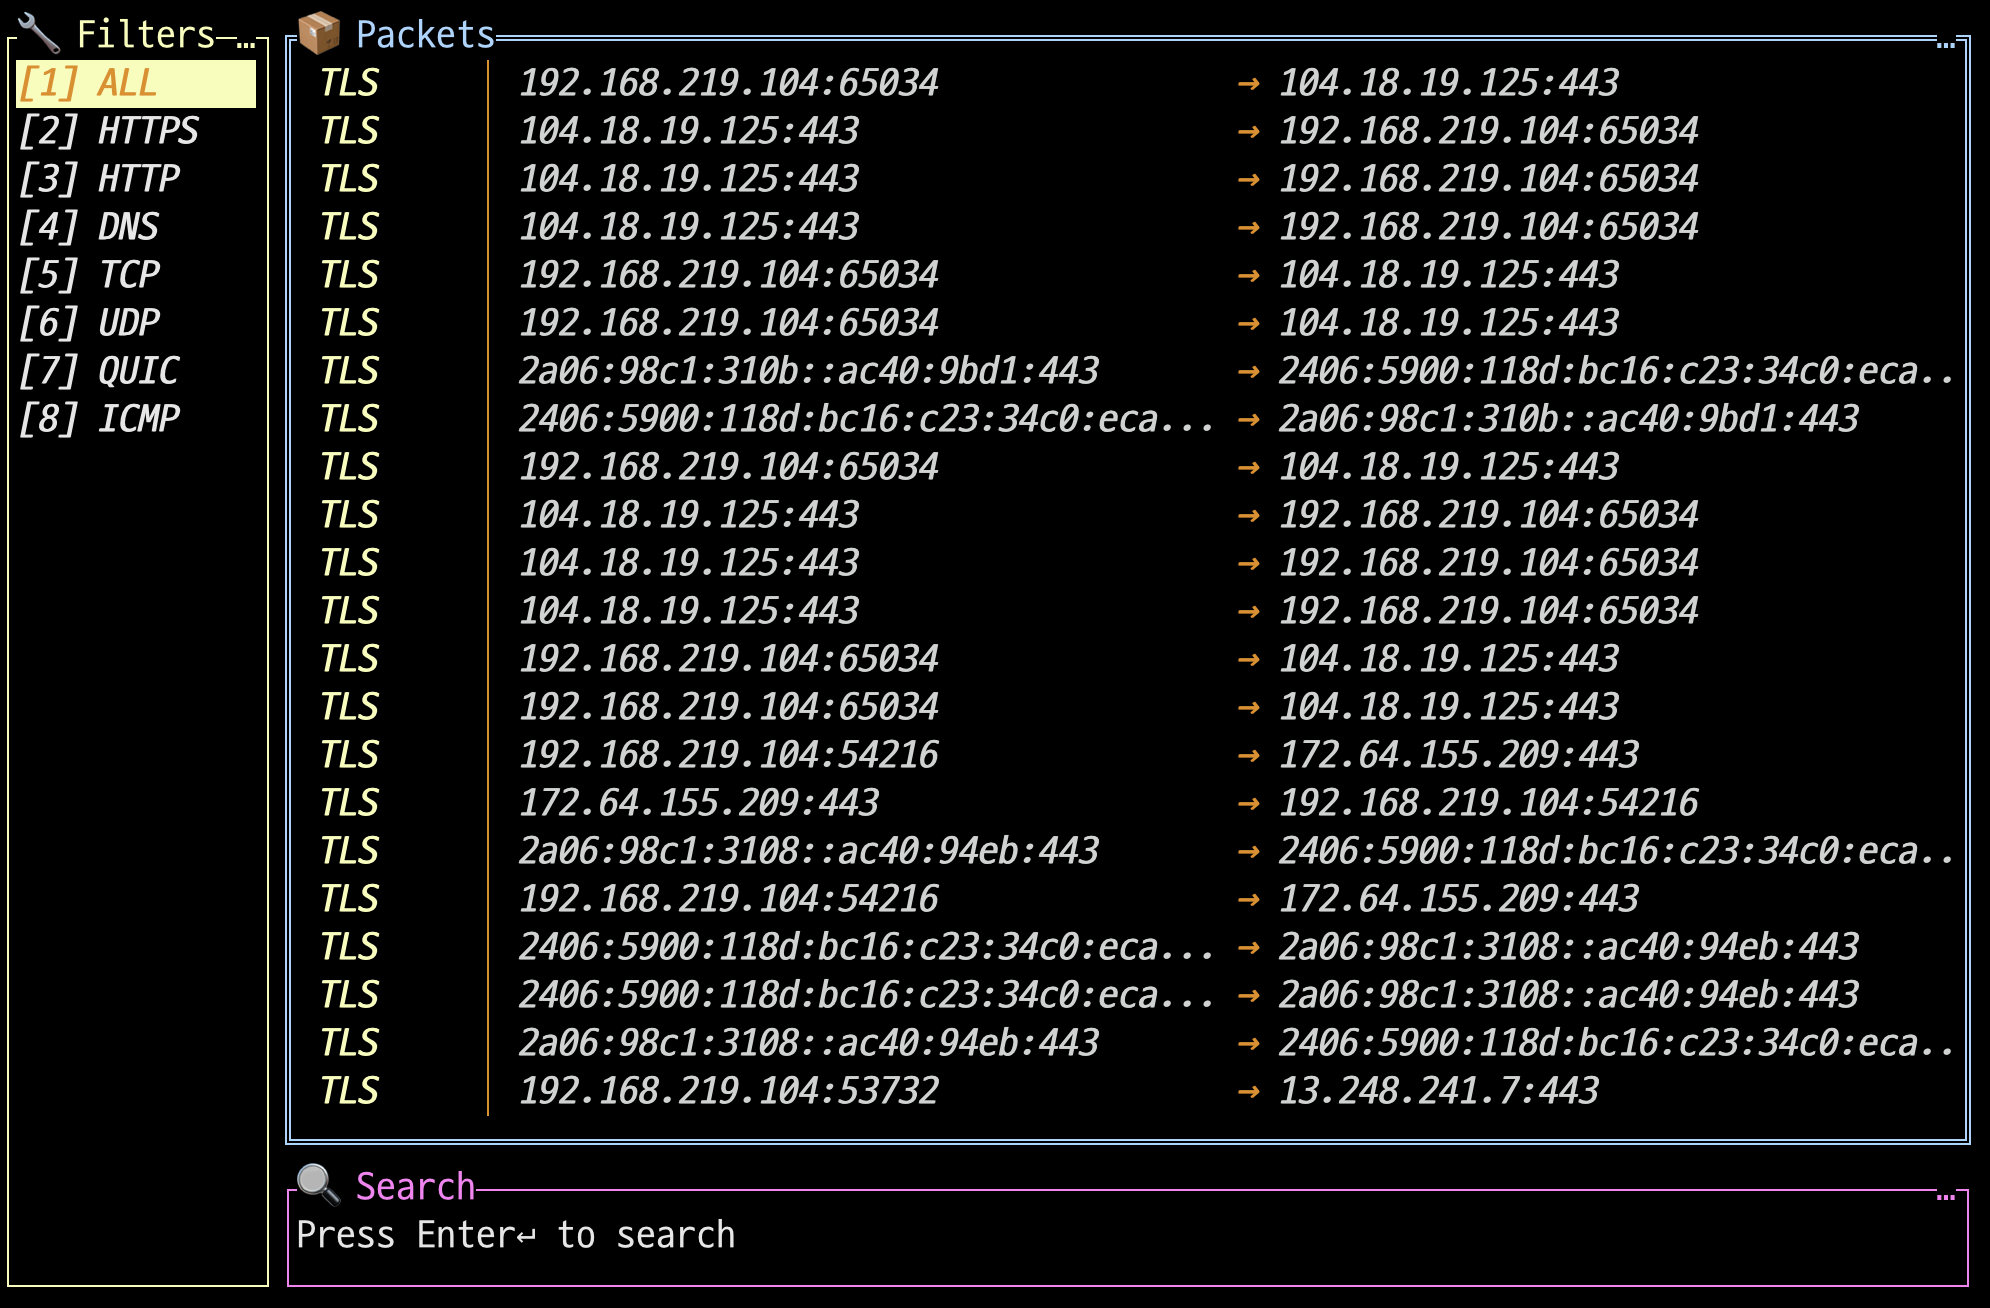
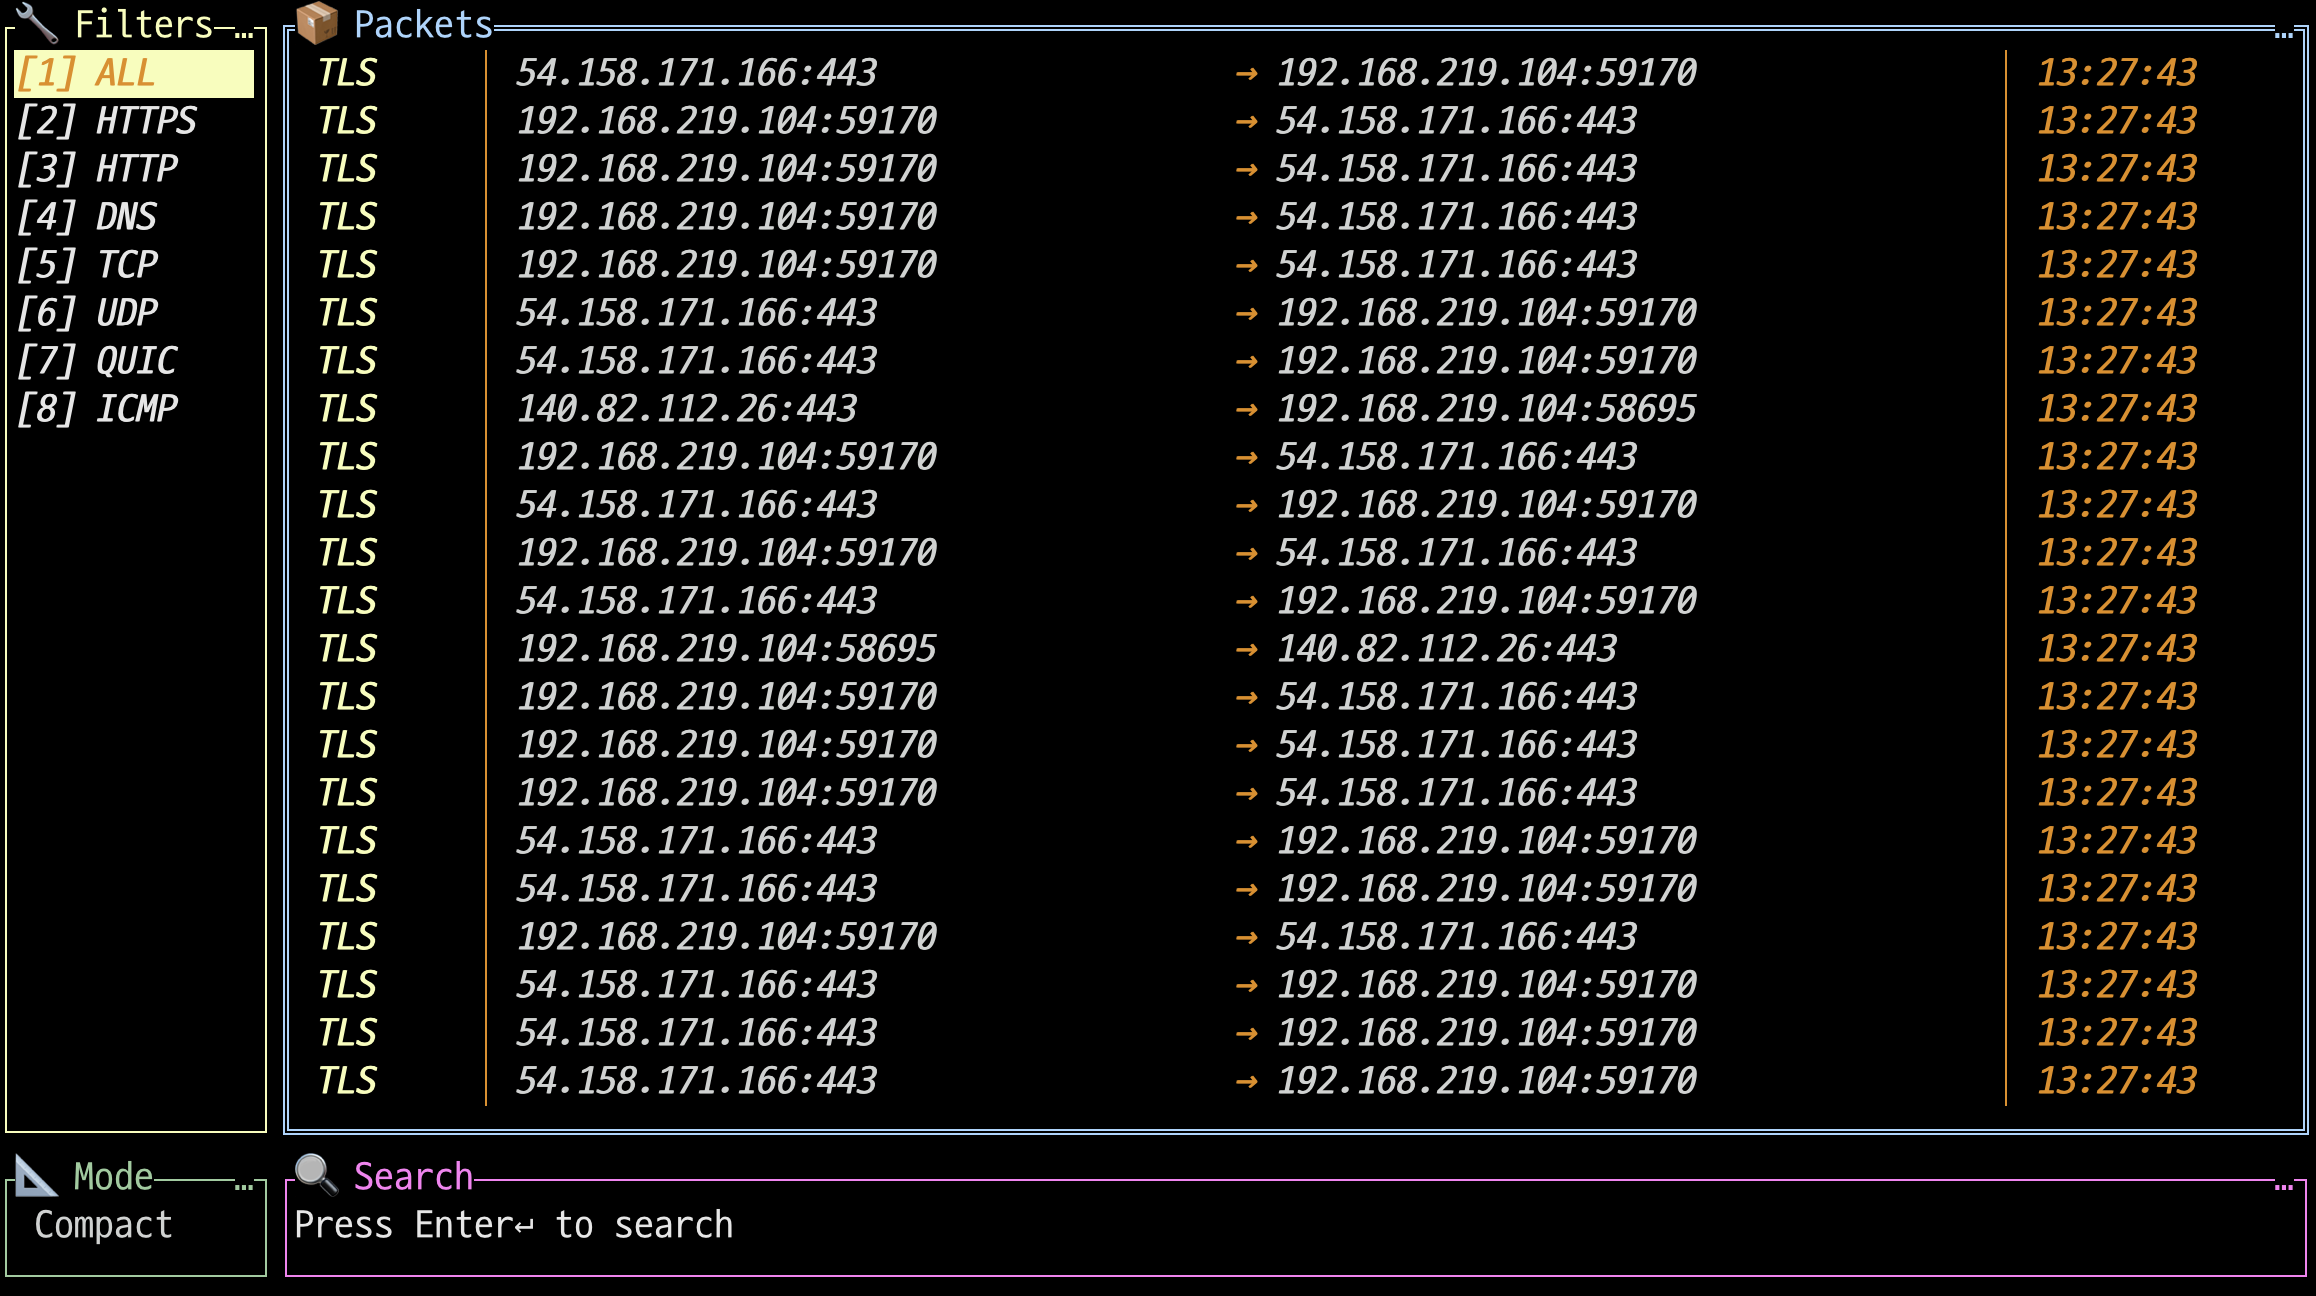
release v0.1.1

Changed region(s): [[0.0, 0.0, 0.997, 0.9877], [0.0, 0.8951, 0.0623, 0.9877], [0.9658, 0.9568, 0.997, 0.9877]]

diff --git a/internal/ui/ui.go b/internal/ui/ui.go
@@ -3,7 +3,6 @@ package ui
 import (
 	"fmt"
 	"log"
-	"os"
 	"strings"
 	"time"
 
@@ -23,6 +22,7 @@ func NewApp(iface pcap.Interface, handle *pcap.Handle, filterIdx int) *types.App
 		App:              tview.NewApplication(),
 		Packets:          make([]types.PacketInfo, 0),
 		CurrentFilterIdx: filterIdx,
+		IsExpandedMode:   false,
 		Iface:            iface,
 		Handle:           handle,
 		PacketCh:         make(chan gopacket.Packet, 1000),
@@ -47,6 +47,14 @@ func NewApp(iface pcap.Interface, handle *pcap.Handle, filterIdx int) *types.App
 	app.FilterView.SetBorder(true).
 		SetBorderColor(tcell.ColorYellow).
 		SetTitle("[yellow]🔧 Filters[white]").
+		SetTitleAlign(tview.AlignLeft)
+
+	app.ModeView = tview.NewTextView().
+		SetDynamicColors(true).
+		SetTextAlign(tview.AlignLeft)
+	app.ModeView.SetBorder(true).
+		SetBorderColor(tcell.ColorGreen).
+		SetTitle("[green]📐 Mode[white]").
 		SetTitleAlign(tview.AlignLeft)
 
 	app.SearchInput = tview.NewInputField().
@@ -75,7 +83,12 @@ func NewApp(iface pcap.Interface, handle *pcap.Handle, filterIdx int) *types.App
 
 	app.MainFlex = tview.NewFlex().
 		SetDirection(tview.FlexColumn).
-		AddItem(app.FilterView, 14, 0, false).
+		AddItem(
+			tview.NewFlex().
+				SetDirection(tview.FlexRow).
+				AddItem(app.FilterView, 0, 1, false).
+				AddItem(app.ModeView, 3, 0, false),
+			14, 0, false).
 		AddItem(
 			tview.NewFlex().
 				SetDirection(tview.FlexRow).
@@ -84,6 +97,7 @@ func NewApp(iface pcap.Interface, handle *pcap.Handle, filterIdx int) *types.App
 			0, 1, true)
 
 	UpdateFilterView(app)
+	UpdateModeView(app)
 	SetupKeyBindings(app)
 
 	return app
@@ -100,6 +114,17 @@ func SetupKeyBindings(a *types.App) {
 				UpdateFilterView(a)
 				UpdateDisplay(a)
 				return nil
+			}
+			if event.Key() == tcell.KeyRune {
+				r := event.Rune()
+				isValid := (r >= '0' && r <= '9') ||
+					r == '.' ||
+					r == ':' ||
+					(r >= 'a' && r <= 'f') ||
+					(r >= 'A' && r <= 'F')
+				if !isValid {
+					return nil
+				}
 			}
 			return event
 		}
@@ -121,8 +146,10 @@ func SetupKeyBindings(a *types.App) {
 					ChangeFilter(a, idx)
 				}
 				return nil
-			case 'q':
-				Stop(a)
+			case 'm', 'M':
+				a.IsExpandedMode = !a.IsExpandedMode
+				UpdateModeView(a)
+				UpdateDisplay(a)
 				return nil
 			}
 		}
@@ -170,6 +197,18 @@ func UpdateFilterView(a *types.App) {
 	a.FilterView.SetText(builder.String())
 }
 
+func UpdateModeView(a *types.App) {
+	var builder strings.Builder
+	
+	if a.IsExpandedMode {
+		fmt.Fprintf(&builder, "[white:black]%-12s[white]", "[E] Expanded")
+	} else {
+		fmt.Fprintf(&builder, "[white:black]%-12s[white]", "[E] Compact")
+	}
+	
+	a.ModeView.SetText(builder.String())
+}
+
 func UpdateDisplay(a *types.App) {
 	a.PacketsMutex.RLock()
 	defer a.PacketsMutex.RUnlock()
@@ -206,18 +245,32 @@ func UpdateDisplay(a *types.App) {
 			detailStr = fmt.Sprintf(" [yellow]%s[white]", pkt.Detail)
 		}
 
-		srcDisplay := HighlightSearch(utils.TruncateString(pkt.Src, 35), a.SearchIP, "cyan")
-		dstDisplay := HighlightSearch(utils.TruncateString(pkt.Dst, 35), a.SearchIP, "magenta")
+		var srcDisplay, dstDisplay string
+		var srcWidth, dstWidth int
+		var timeFormat string
 
-		srcPadded := utils.PadString(srcDisplay, 35)
-		dstPadded := utils.PadString(dstDisplay, 35)
+		if a.IsExpandedMode {
+			srcDisplay = HighlightSearch(pkt.Src, a.SearchIP, "cyan")
+			dstDisplay = HighlightSearch(pkt.Dst, a.SearchIP, "magenta")
+			srcWidth = 50
+			dstWidth = 50
+			timeFormat = "15:04:05.000"
+		} else {
+			srcDisplay = HighlightSearch(utils.TruncateString(pkt.Src, 35), a.SearchIP, "cyan")
+			dstDisplay = HighlightSearch(utils.TruncateString(pkt.Dst, 35), a.SearchIP, "magenta")
+			srcWidth = 35
+			dstWidth = 35
+			timeFormat = "15:04:05"
+		}
+
+		srcPadded := utils.PadString(srcDisplay, srcWidth)
+		dstPadded := utils.PadString(dstDisplay, dstWidth)
 		fmt.Fprintf(&builder, "[%s:black:bi] %-6s [white] [gray]│[white] %s [gray]→[white] %s [gray]│[white] [gray]%s[white]%s\n",
-			protoColor, pkt.Proto, srcPadded, dstPadded, pkt.Timestamp.Format("15:04:05"), detailStr)
+			protoColor, pkt.Proto, srcPadded, dstPadded, pkt.Timestamp.Format(timeFormat), detailStr)
 		count++
 	}
 
 	a.PacketView.SetText(builder.String())
-	UpdateFilterView(a)
 }
 
 func HighlightSearch(text, search, defaultColor string) string {
@@ -268,7 +321,7 @@ func GetProtoColor(proto string) string {
 	}
 }
 
-func Run(a *types.App, stop chan os.Signal) {
+func Run(a *types.App) {
 	network.StartPacketCapture(a)
 	
 	go func() {

diff --git a/main.go b/main.go
@@ -3,9 +3,7 @@ package main
 import (
 	"log"
 	"os"
-	"os/signal"
 	"runtime"
-	"syscall"
 	"github.com/google/gopacket/pcap"
 	"github.com/fe-dudu/netmon/internal/network"
 	"github.com/fe-dudu/netmon/internal/types"
@@ -47,9 +45,6 @@ func main() {
 
 	app := ui.NewApp(iface, handle, filterIdx)
 
-	stop := make(chan os.Signal, 1)
-	signal.Notify(stop, os.Interrupt, syscall.SIGTERM)
-
-	ui.Run(app, stop)
+	ui.Run(app)
 }
 

diff --git a/internal/types/types.go b/internal/types/types.go
@@ -38,6 +38,7 @@ type App struct {
 	App         *tview.Application
 	PacketView  *tview.TextView
 	FilterView  *tview.TextView
+	ModeView    *tview.TextView
 	SearchInput *tview.InputField
 	MainFlex    *tview.Flex
 
@@ -47,6 +48,7 @@ type App struct {
 	CurrentFilterIdx int
 	SearchIP         string
 	IsSearchMode     bool
+	IsExpandedMode   bool
 
 	Iface    pcap.Interface
 	Handle   *pcap.Handle

diff --git a/README.md b/README.md
@@ -2,10 +2,13 @@
 
 A real-time network packet monitor with a beautiful TUI interface, built with Go. Monitor DNS, TCP, UDP, HTTP, HTTPS, QUIC, and ICMP traffic in your terminal.
 
+![Version](https://img.shields.io/github/v/release/fe-dudu/netmon)
 ![Platform](https://img.shields.io/badge/platform-macOS%20%28Intel%2FApple%20Silicon%29%20%7C%20Linux-lightgrey)
 ![Go Version](https://img.shields.io/badge/go-1.25+-00ADD8?logo=go)
 
 ![netmon](assets/main.png)
+
+
 
 ## Installation
 
@@ -42,6 +45,8 @@ The program will automatically select the default network interface.
 - `6`: UDP - All UDP packets (L4)
 - `7`: QUIC - QUIC over UDP port 443 (UDP-based transport)
 - `8`: ICMP - ICMP/ICMPv6 packets (L3)
+- `M`: Toggle display mode (Expanded/Compact)
+  - **Expanded**: Full IP addresses (no truncation), timestamp with milliseconds
+  - **Compact** (default): Truncated IP addresses (35 chars), timestamp with seconds only
 - `Enter`: Enter search mode
-- `ESC`: Exit search mode
-- `Q`: Quit
+- `ESC`: Exit search mode, Quit
